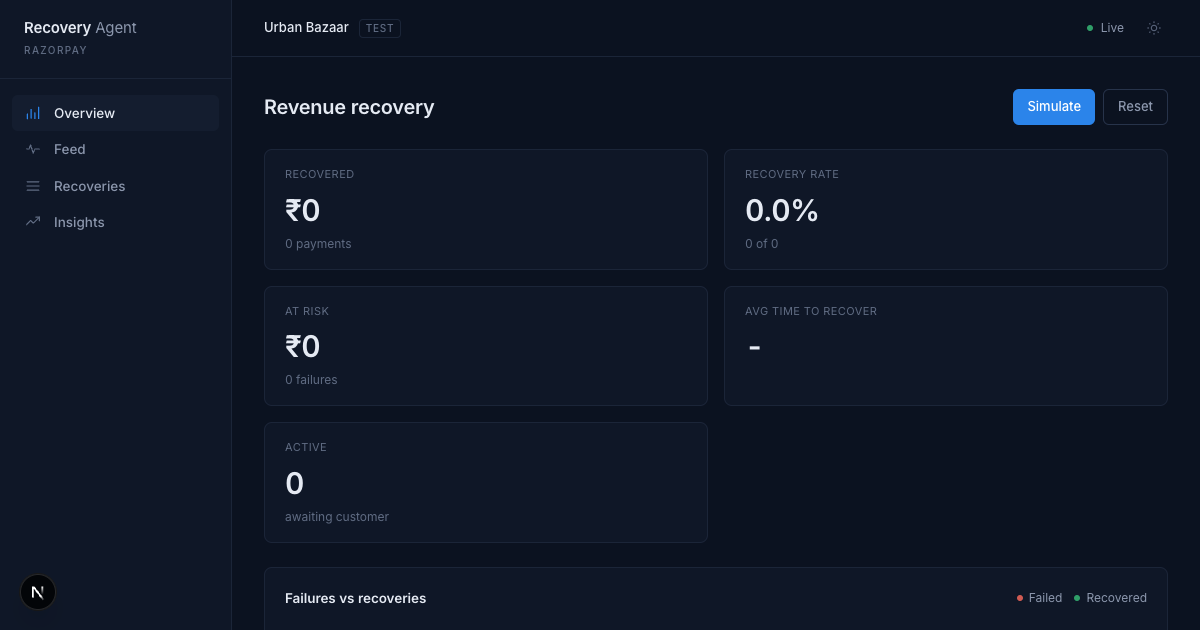
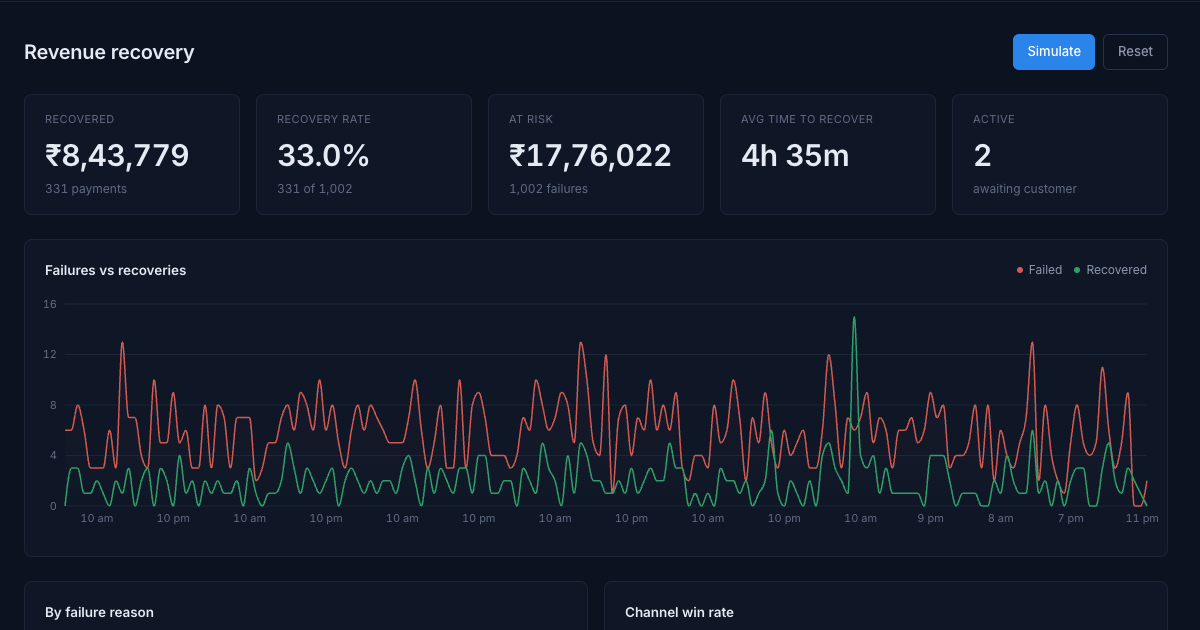
Fix demo reset and simulation, add populated screenshots

diff --git a/src/components/overview/Charts.tsx b/src/components/overview/Charts.tsx
@@ -112,7 +112,7 @@ export function RecoveryTimelineChart({ data }: { data: Stats["timeline"] }) {
             fill="url(#gradFailed)"
             dot={false}
             activeDot={{ r: 3, strokeWidth: 0 }}
-            animationDuration={200}
+            isAnimationActive={false}
           />
           <Area
             type="monotone"
@@ -122,7 +122,7 @@ export function RecoveryTimelineChart({ data }: { data: Stats["timeline"] }) {
             fill="url(#gradRecovered)"
             dot={false}
             activeDot={{ r: 3, strokeWidth: 0 }}
-            animationDuration={200}
+            isAnimationActive={false}
           />
         </AreaChart>
       </ResponsiveContainer>
@@ -224,7 +224,7 @@ export function ChannelChart({ data }: { data: Stats["byChannel"] }) {
               );
             }}
           />
-          <Bar dataKey="ratePct" fill={BLUE} radius={[2, 2, 0, 0]} maxBarSize={28} animationDuration={200} />
+          <Bar dataKey="ratePct" fill={BLUE} radius={[2, 2, 0, 0]} maxBarSize={28} isAnimationActive={false} />
         </BarChart>
       </ResponsiveContainer>
     </div>

diff --git a/src/lib/http.test.ts b/src/lib/http.test.ts
@@ -1,5 +1,5 @@
 import { afterEach, describe, expect, it, vi } from "vitest";
-import { demoGuard } from "./http";
+import { api, demoGuard } from "./http";
 
 afterEach(() => vi.unstubAllEnvs());
 describe("production demo authorization", () => {
@@ -21,5 +21,20 @@ describe("production demo authorization", () => {
     expect(demoGuard(new Request("http://test/api/reset", {
       headers: { authorization: "Bearer test-token" },
     }))).toBeNull();
+  });
+});
+
+describe("API diagnostics", () => {
+  it("logs the original server error while keeping its details out of the response", async () => {
+    const error = new Error("Prisma validation failed: unknown argument attribution");
+    const log = vi.spyOn(console, "error").mockImplementation(() => {});
+    try {
+      const response = await api(async () => { throw error; });
+      expect(response.status).toBe(500);
+      expect(await response.json()).toEqual({ error: "Request failed" });
+      expect(log).toHaveBeenCalledWith("API request failed", error);
+    } finally {
+      log.mockRestore();
+    }
   });
 });

diff --git a/scripts/setup-db.ts b/scripts/setup-db.ts
@@ -3,4 +3,21 @@ import { execFileSync } from "node:child_process";
 config({ path: ".env.local", quiet: true });
 process.env.DATABASE_URL ||= "file:./dev.db";
 execFileSync("npx", ["prisma", "db", "push"], { stdio: "inherit", env: process.env });
-void import("./seed");
+async function initialize() {
+  const { db } = await import("../src/lib/db");
+  const { seed } = await import("../src/lib/seed");
+  try {
+    // This runs before the server starts, so previous RUNNING rows are orphaned.
+    await db.simulationRun.updateMany({
+      where: { status: "RUNNING" },
+      data: { status: "FAILED", completedAt: new Date(), error: "Server restarted during simulation" },
+    });
+    console.log(await seed());
+  } finally {
+    await db.$disconnect();
+  }
+}
+initialize().catch((error) => {
+  console.error("Database initialization failed", error);
+  process.exitCode = 1;
+});

diff --git a/src/lib/db.ts b/src/lib/db.ts
@@ -1,5 +1,14 @@
-import { PrismaClient } from "@prisma/client";
+import { Prisma, PrismaClient } from "@prisma/client";
 process.env.DATABASE_URL ||= "file:./dev.db";
-const globalDb = globalThis as unknown as { prisma?: PrismaClient };
+// Hot reload must not retain a client generated against an older schema.
+const schema = JSON.stringify(Prisma.dmmf.datamodel);
+const globalDb = globalThis as unknown as { prisma?: PrismaClient; prismaSchema?: string };
+if (globalDb.prisma && globalDb.prismaSchema !== schema) {
+  void globalDb.prisma.$disconnect();
+  globalDb.prisma = undefined;
+}
 export const db = globalDb.prisma ?? new PrismaClient();
-if (process.env.NODE_ENV !== "production") globalDb.prisma = db;
+if (process.env.NODE_ENV !== "production") {
+  globalDb.prisma = db;
+  globalDb.prismaSchema = schema;
+}

diff --git a/src/lib/agent/rules.ts b/src/lib/agent/rules.ts
@@ -26,7 +26,7 @@ const policies: Record<FailureReason, [string, TimingBucket, string, string]> =
     INSUFFICIENT_FUNDS: [
       "SALARY_DAY_RETRY",
       "salary",
-      "The issuer reported insufficient funds, so repeating the request now is unlikely to help. A gentle reminder during the next 1st–3rd salary window gives the customer time to replenish their balance.",
+      "The issuer reported insufficient funds, so repeating the request now is unlikely to help. A gentle reminder during the next 1st-3rd salary window gives the customer time to replenish their balance.",
       "complete your order when convenient, using another account if you prefer",
     ],
     BANK_DOWN: [

diff --git a/src/components/overview/OverviewPage.tsx b/src/components/overview/OverviewPage.tsx
@@ -141,7 +141,7 @@ export function OverviewPage() {
           label="Recovery rate"
           value={recoveryRate}
           format={(n) => `${n.toFixed(1)}%`}
-          meta={`${num(s?.recovered ?? 0)} of ${num(s?.totalAttempted ?? 0)}`}
+          meta={`${num(s?.recovered ?? 0)} of ${num(s?.totalFailed ?? 0)}`}
           loading={first}
         />
         <KpiCard

diff --git a/src/lib/http.ts b/src/lib/http.ts
@@ -18,7 +18,7 @@ export function api(handler: () => Promise<Response>): Promise<Response> {
       return Response.json({ error: "Not found" }, { status: 404 });
     console.error(
       "API request failed",
-      error instanceof Error ? error.name : "UnknownError",
+      error,
     );
     return Response.json({ error: "Request failed" }, { status: 500 });
   });

diff --git a/src/lib/simulator.ts b/src/lib/simulator.ts
@@ -150,7 +150,8 @@ export async function executeRun(
       data: { status: "COMPLETED", completedAt: new Date() },
     });
     await event("SIMULATION_COMPLETED", "Simulation complete", { runId });
-  } catch {
+  } catch (error) {
+    console.error("Simulation failed", error);
     await db.simulationRun.updateMany({
       where: { id: runId },
       data: {

diff --git a/scripts/init-demo.ts b/scripts/init-demo.ts
@@ -1,3 +1,5 @@
+import { config } from "dotenv";
+config({ path: ".env.local", quiet: true });
 // Uses the same DATABASE_URL as Next, never the disposable CLI simulation database.
 async function main() {
   const { db } = await import("../src/lib/db");

diff --git a/README.md b/README.md
@@ -16,7 +16,8 @@ Requires Node.js 22 and npm. The empty credential values in `.env.example` are p
 
 ```bash
 [ -f .env.local ] || cp .env.example .env.local
-npm run setup
+npm run demo
+# Optional reproducibility check in a separate database:
 npm run simulate -- --n 1000 --seed 42
 npm test
 npm run build
@@ -25,7 +26,7 @@ npm run dev
 npm run worker
 ```
 
-Open http://localhost:3000. `setup` installs dependencies, pushes the Prisma schema and seeds 200 synthetic customers. `npm run demo` combines setup and the exact batch above. CLI simulation rebuilds only its disposable `prisma/simulation.db`, independently of dashboard data in `prisma/dev.db`. Use the dashboard simulator or `POST /api/simulate` to populate the dashboard. API simulations preserve existing data and learning; reset the demo before comparing API runs. Never run two CLI simulations together.
+Open http://localhost:3000. `setup` installs dependencies, pushes the Prisma schema and seeds 200 synthetic customers. `npm run demo` runs setup and populates an empty dashboard database with 1,000 synthetic failures (seed 42), preserving existing dashboard transactions. `npm run dev` synchronizes the schema and generated client before starting, and clears interrupted simulation runs. CLI simulation rebuilds only its disposable `prisma/simulation.db`, independently of dashboard data in `prisma/dev.db`. Use the dashboard simulator or `POST /api/simulate` to populate the dashboard. API simulations preserve existing data and learning; reset the demo before comparing API runs. Never run two CLI simulations together.
 
 Next development output uses `.next-dev`, production builds use `.next`. `.env.local`, databases and logs are gitignored; `.env.example` is tracked. Configure payment credentials only for intentional live use. Production mutation APIs require `Authorization: Bearer <DEMO_API_TOKEN>` unless `DEMO_PUBLIC=true`.
 
@@ -59,7 +60,7 @@ The deterministic rule engine is primary. Structured gateway reasons take preced
 
 | Reason | Action |
 | --- | --- |
-| Insufficient funds | Next 1st–3rd salary window in India time |
+| Insufficient funds | Next 1st-3rd salary window in India time |
 | Bank down / UPI app error | Wait 15 minutes, suggest another bank / app |
 | OTP timeout / card expired / network drop | Immediate hosted checkout, suggest the relevant alternative |
 | Card declined / unknown | One neutral alternative-method reminder after 30 minutes |
@@ -148,7 +149,7 @@ The worker polls every five seconds. Process crashes can leave stale simulation 
 
 ## Tests
 
-`npm test`: **3 test files passed, 58 tests passed**. Coverage includes failure classification, reason policies, consent, timing, learning, JSON/form opt-out, dispatch refusal, original-payment non-attribution, matching-link credit, replay protection, amount mismatch and production demo authorization. Integration tests create and remove an isolated temporary SQLite database.
+`npm test`: **3 test files passed, 59 tests passed**. Coverage includes failure classification, reason policies, consent, timing, learning, JSON/form opt-out, dispatch refusal, original-payment non-attribution, matching-link credit, replay protection, amount mismatch and production demo authorization. Integration tests create and remove an isolated temporary SQLite database.
 
 `npm run build` includes lint and TypeScript checks.
 
